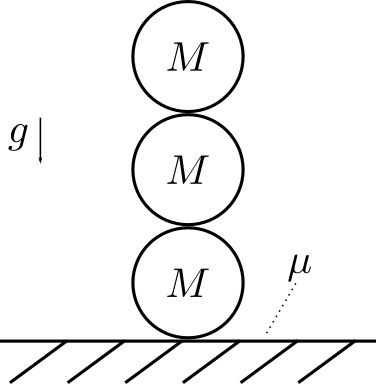
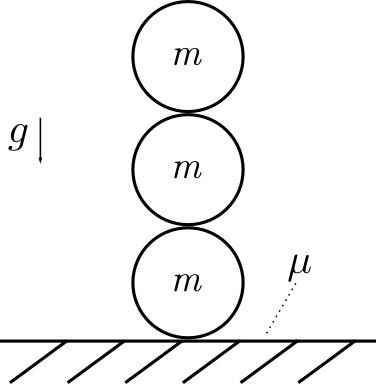
Respond to most of the PR comments

Changed region(s): [[0.4388, 0.6875, 0.5559, 0.7812], [0.4388, 0.4062, 0.5559, 0.5], [0.4388, 0.0938, 0.5559, 0.1875]]

diff --git a/clutter.html b/clutter.html
@@ -695,19 +695,21 @@ href="https://www.youtube.com/channel/UChfUOAhz7ynELF-s_1LPpWg">Lecture  videos 
   <section id="exercises"><h1>Exercises</h1>
 
     <exercise><h1>Assessing static equilibrium</h1>
-        <p>For this problem, we'll use the Coulomb friction model, where $f_F \le \mu f_N$. In other words, the friction force is large enough to resist any movement up until the force required would exceed $\mu f_N$, in which case $f_F = \mu f_N$.
+        <p>For this problem, we'll use the Coulomb friction model, where $f_t \le \mu f_n$. In other words, the friction force is large enough to resist any movement up until the force required would exceed $\mu f_n$, in which case $f_f = \mu f_n$.
         <ol type="a">
           <li>
-            <p>Consider a box with mass $M$ sitting on a ramp at angle $\theta$, with coefficient of box $\mu$ in between the sphere and the ramp:</p>
+            <p>Consider a box with mass $m$ sitting on a ramp at angle $\theta$, with coefficient of box $\mu$ in between the sphere and the ramp:</p>
             <figure>
                 <img style="width:50%", src="figures/exercises/static_equilibrium_ramp.png"/>
             </figure>
-            <p>For a give angle $\theta$, what is the minimum coefficient of friction required for the box to not slip down the plane? Use $g$ for acceleration due to gravity.</p>
+            <p>For a given angle $\theta$, what is the minimum coefficient of friction required for the box to not slip down the plane? Use $g$ for acceleration due to gravity.</p>
           </li>
         </ol>
-        <p>Now consider a flat plan with three spheres sitting on it, with radius $r$ and mass $M$. Assume they have the same coefficient of friction $\mu$ between each other as with the ground.</p>
+        <p>Now consider a flat plane with three solid (uniform density) spheres sitting on it, with
+             radius $r$ and mass $m$.
+             Assume they have the same coefficient of friction $\mu$ between each other as with the ground.</p>
 
-        <p>For each of the following configurations: could the spheres be in static equilibrium? Explain why or why not. Assume $\mu$, $M$, and $r$ can take on whatever values necessary to achieve static equilibrium (so the answer is only "no" if it would be impossible for any choice of system parameters), up to a coefficient of friction of 1. Remember that both torques and forces need to be balanced for all bodies to be in equilibrium.</p>
+        <p>For each of the following configurations: could the spheres be in static equilibrium for some $\mu\in[0,1]$, $m > 0$, $r > 0$? Explain why or why not. Remember that both torques and forces need to be balanced for all bodies to be in equilibrium.</p>
         <ol start="2" type="a">
           <li> Spheres stacked on top of each other:
             <figure>
@@ -731,7 +733,7 @@ href="https://www.youtube.com/channel/UChfUOAhz7ynELF-s_1LPpWg">Lecture  videos 
           </li>
         </ol>
         <p>
-        Note that there are multiple ways to solve these problems. One way would be to enumerate all the forces and torques and check that the values work by hand. Another would be to set up an optimization problem using Drake's <a href="https://drake.mit.edu/doxygen_cxx/classdrake_1_1multibody_1_1_static_equilibrium_problem.html">StaticEquilbriumProblem</a> class, which sets up these sorts of problems given these a multi-body plant.
+        Note that there are multiple ways to solve these problems. draw the free-body diagram for each object, which includes gravity and the contact forces, and solve for the conditions when the friction forces are possible. Another would be to set up an optimization problem using Drake's <a href="https://drake.mit.edu/doxygen_cxx/classdrake_1_1multibody_1_1_static_equilibrium_problem.html">StaticEquilbriumProblem</a> class, which sets up these sorts of problems given these a multi-body plant.
         </p>
       </exercise>
 
